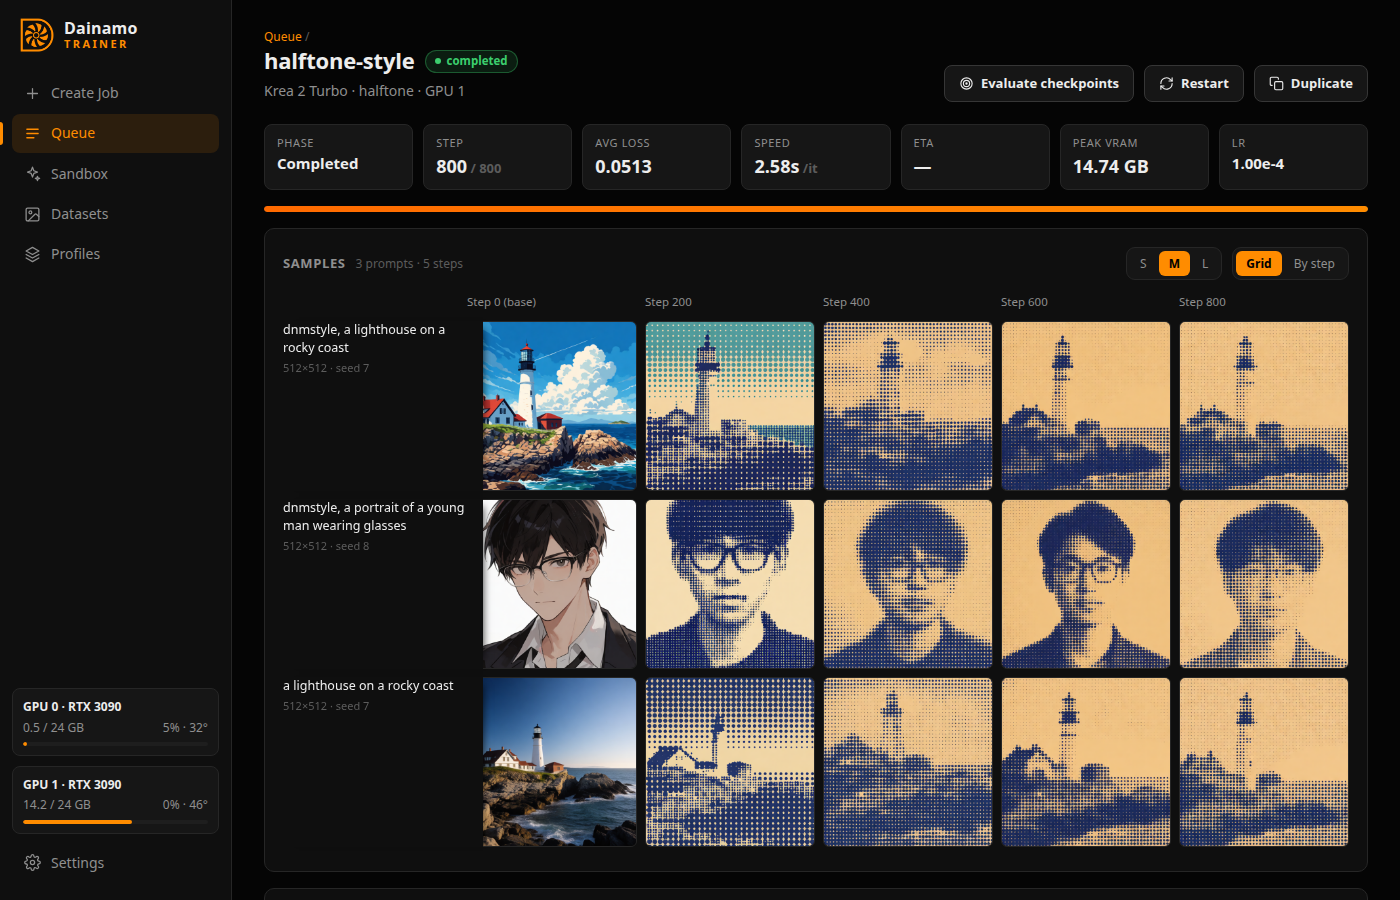
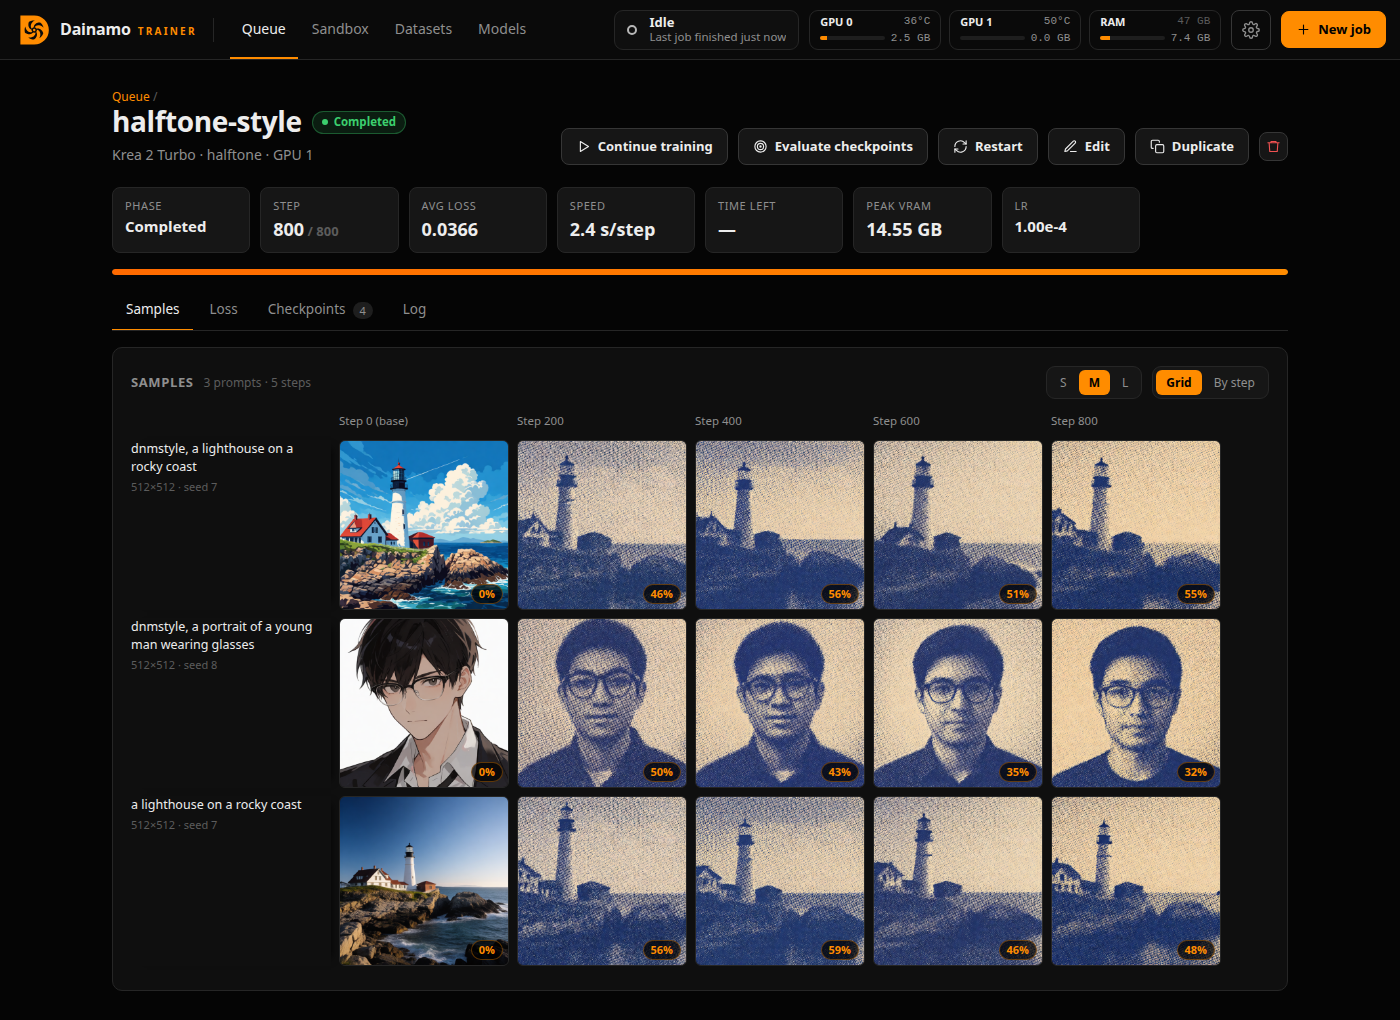
Retake the screenshots with the current UI
All seven, from real runs on this build: a halftone-style dataset (24 Krea 2 renders put through a halftone
screen) and its LoRA and LoKr, a smile slider trained with Keep the layout, a YuE2 LoRA on 12 band-limited songs,
and the Sandbox comparing the halftone LoRA with the base model. The job page now shows the likeness badges and
the top bar; the slider's caption says what it was trained with.

Claude-Session: https://claude.ai/code/session_01KntFiLTadC8Qxdj6Hc7r8Y

diff --git a/README.md b/README.md
@@ -7,7 +7,7 @@ training engine. It reads ComfyUI model files directly, including `fp8_scaled`,
 int8 and nvfp4 weights, and saves LoRAs that load in ComfyUI. It trains Krea 2,
 MOSS-Image, Qwen-Image 2.1, LTX 2.5, MiniMax H3 and YuE2.
 
-![A finished Krea 2 job: its samples at each checkpoint, step 0 being the base model](docs/screenshots/job.png)
+![A finished Krea 2 job: its samples at each checkpoint, step 0 being the base model, each scored for likeness to the dataset](docs/screenshots/job.png)
 
 ## Run
 

diff --git a/docs/sliders.md b/docs/sliders.md
@@ -51,5 +51,5 @@ lower guidance strength.
 
 ![A smile slider's samples at -1, 0 and +1, at steps 0, 200 and 400](screenshots/slider.png)
 
-These samples are from a smile slider trained without preservation: by step 400
-the +1 samples change the clothes as well as the expression.
+These samples are from a smile slider trained with **Keep the layout**: the
+expression moves either way while the clothes, props and backgrounds stay.
